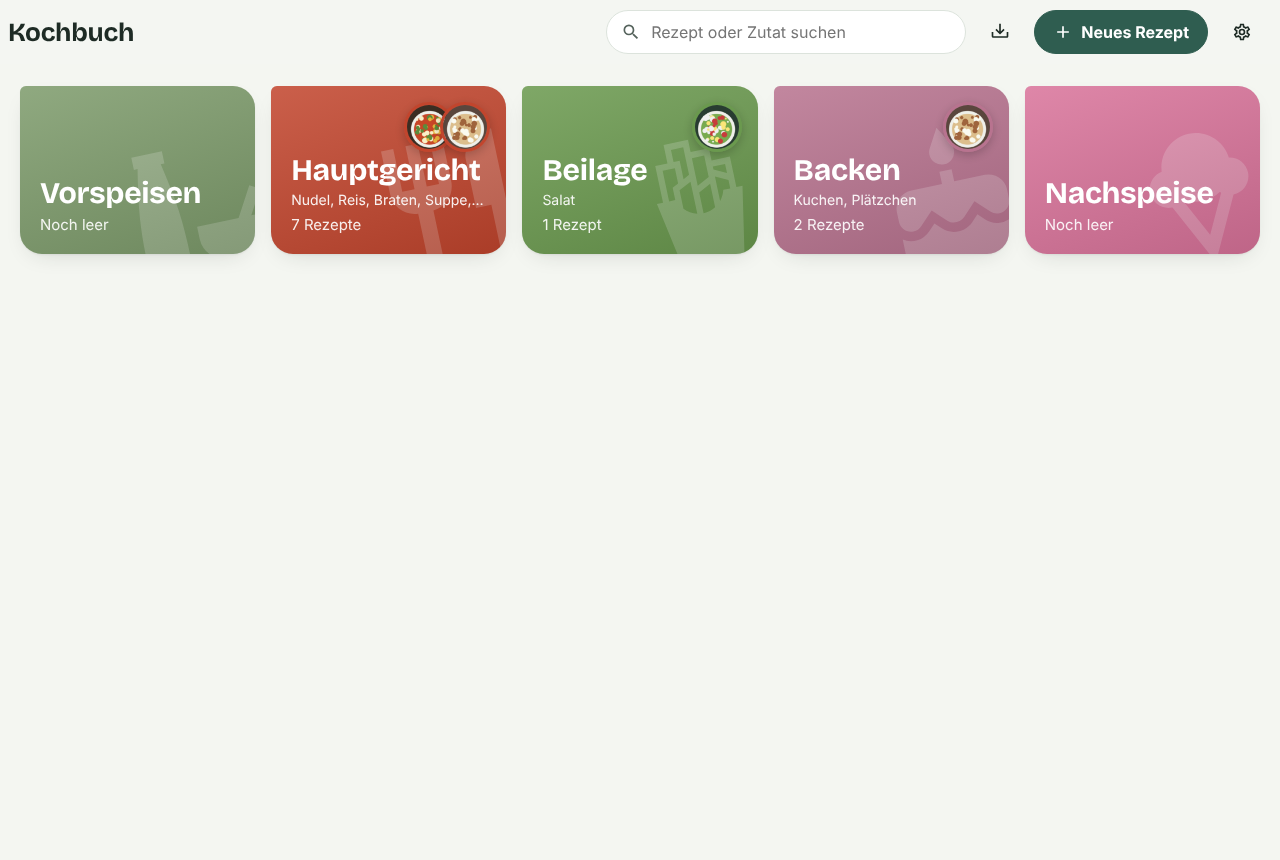
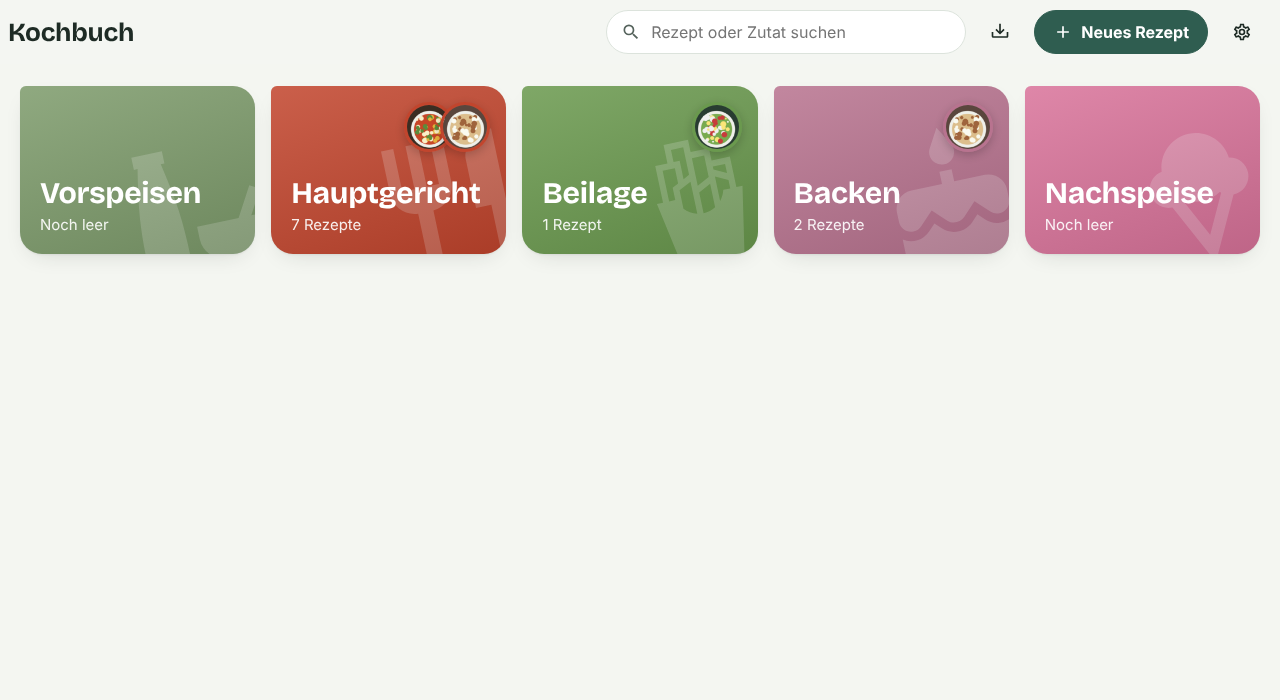
Kochbuch 1.7.4: Startseite ohne Unterkategorie-Namen
Claude-Session: https://claude.ai/code/session_01DF6XX5kd56oiDmByM1R25Q

diff --git a/custom_components/kochbuch/frontend/kochbuch-panel.js b/custom_components/kochbuch/frontend/kochbuch-panel.js
@@ -1,7 +1,7 @@
 /* Kochbuch – Panel für Home Assistant
  * https://github.com/domiundergroun/Kochrezepte
  */
-const KB_VERSION = "1.7.3";
+const KB_VERSION = "1.7.4";
 
 /* ------------------------------------------------------------------ Hilfen */
 const esc = (v) =>
@@ -1110,7 +1110,6 @@ class KochbuchPanel extends HTMLElement {
         <ha-icon class="bg" icon="${esc(c.icon)}"></ha-icon>
         ${pics.length ? `<span class="thumbs">${pics.map((r) => `<img src="${esc(r.image)}" alt="" loading="lazy">`).join("")}</span>` : ""}
         <span class="ct-name">${esc(c.name)}</span>
-        ${subs.length ? `<span class="ct-subs">${subs.map((x) => esc(x.name)).join(", ")}</span>` : ""}
         <span class="ct-count">${list.length ? `${list.length} ${list.length === 1 ? "Rezept" : "Rezepte"}` : "Noch leer"}</span>
       </button>`;
     }).join("");

diff --git a/custom_components/kochbuch/const.py b/custom_components/kochbuch/const.py
@@ -1,7 +1,7 @@
 """Konstanten für die Kochbuch-Integration."""
 
 DOMAIN = "kochbuch"
-VERSION = "1.7.3"
+VERSION = "1.7.4"
 
 STORAGE_KEY = "kochbuch.rezepte"
 STORAGE_VERSION = 1

diff --git a/README.md b/README.md
@@ -2,7 +2,7 @@
 
 Euer gemeinsames Rezeptbuch direkt in Home Assistant – mit eigener Seite in der Seitenleiste, Kochmodus fürs Küchentablet und Einkaufsliste per Knopfdruck.
 
-![Version](https://img.shields.io/badge/Version-1.7.3-2F5D50) ![HACS](https://img.shields.io/badge/HACS-Custom-F2B134)
+![Version](https://img.shields.io/badge/Version-1.7.4-2F5D50) ![HACS](https://img.shields.io/badge/HACS-Custom-F2B134)
 
 ## Was es kann
 
@@ -64,6 +64,7 @@ anzahl: 4          # bei favoriten/neu
 
 | Version | Änderungen |
 |---|---|
+| 1.7.4 | Startseite: Kacheln zeigen nur noch die Hauptkategorie, ohne Liste der Unterkategorien |
 | 1.7.3 | Hauptkategorien zeigen nur ihre eigenen Rezepte, Rezepte der Unterkategorien nur dort (Suche findet weiterhin alles) |
 | 1.7.2 | Keine Favoriten-Kacheln mehr; Favoriten stehen in jeder Rezeptliste oben |
 | 1.7.1 | Unterkategorien zeigen nur noch sich selbst als Überschrift (Pfeil führt zur Oberkategorie zurück); Favoriten-Kachel in Unterkategorien nur, wenn dort Favoriten gesetzt sind |
